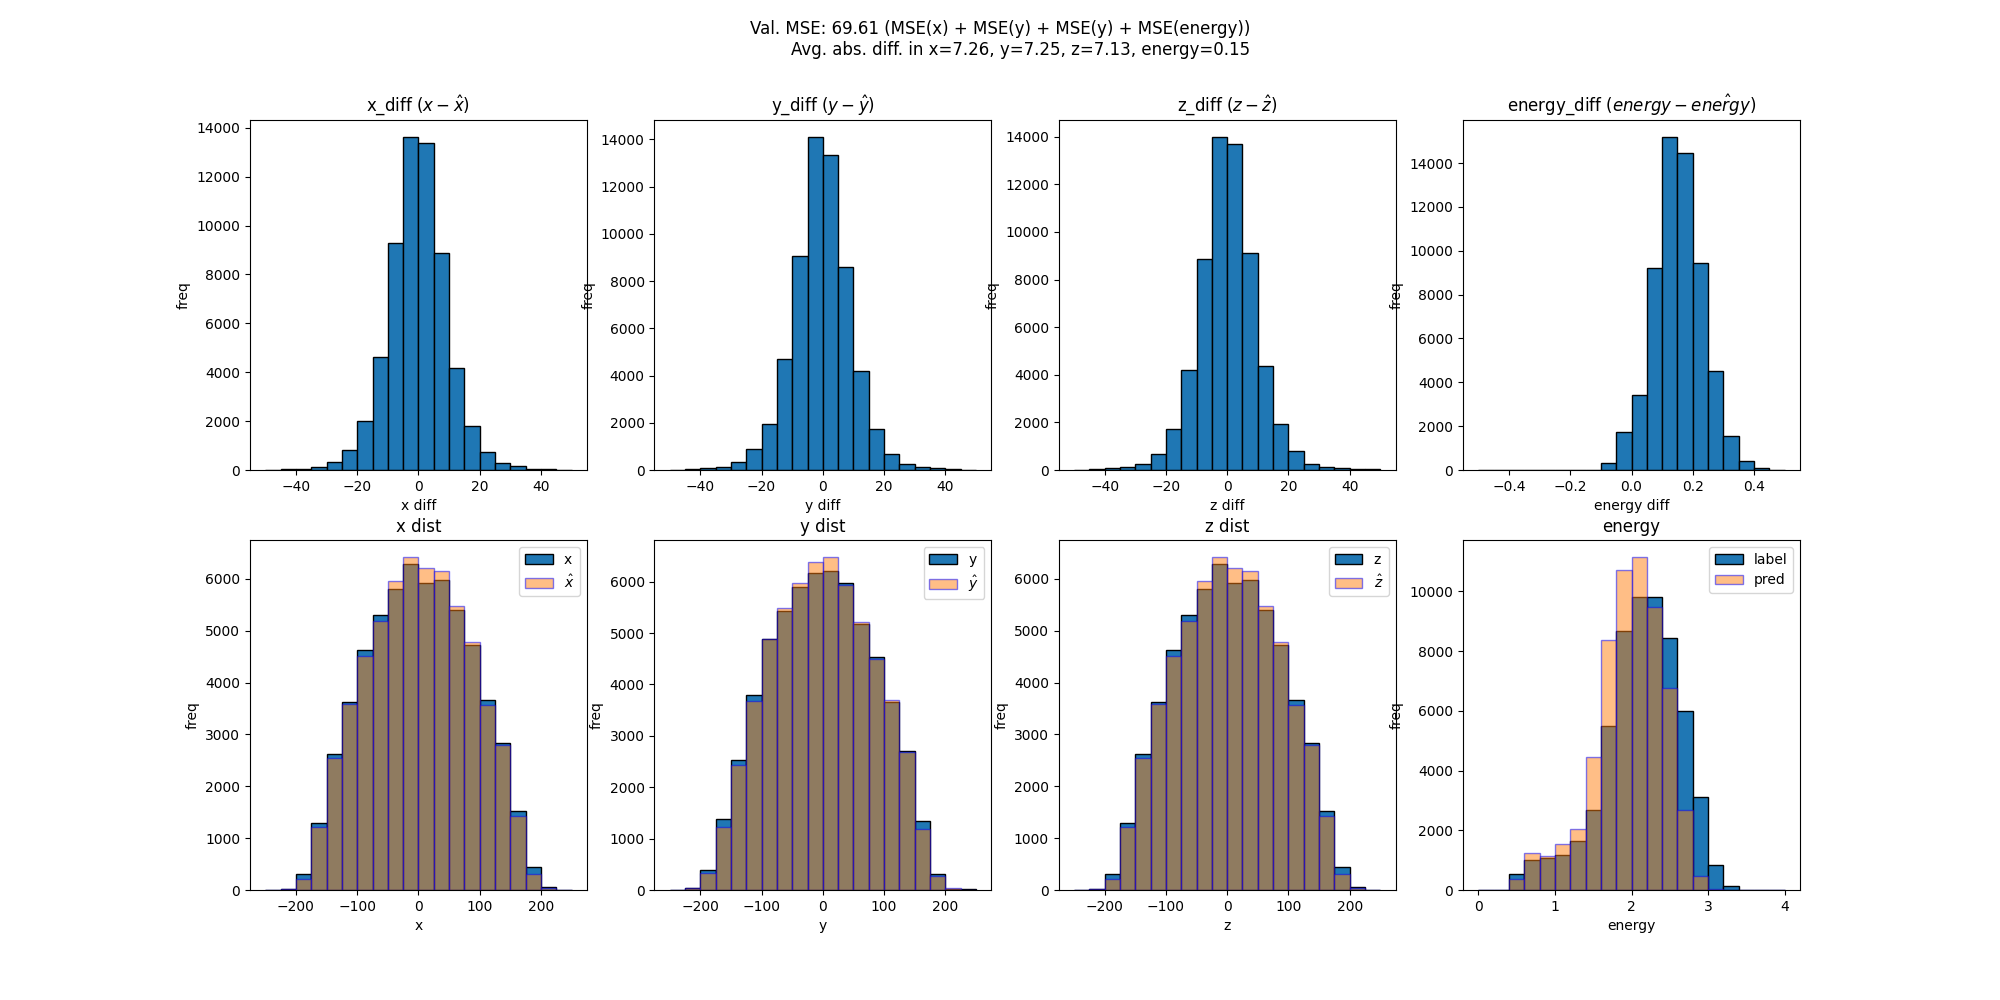
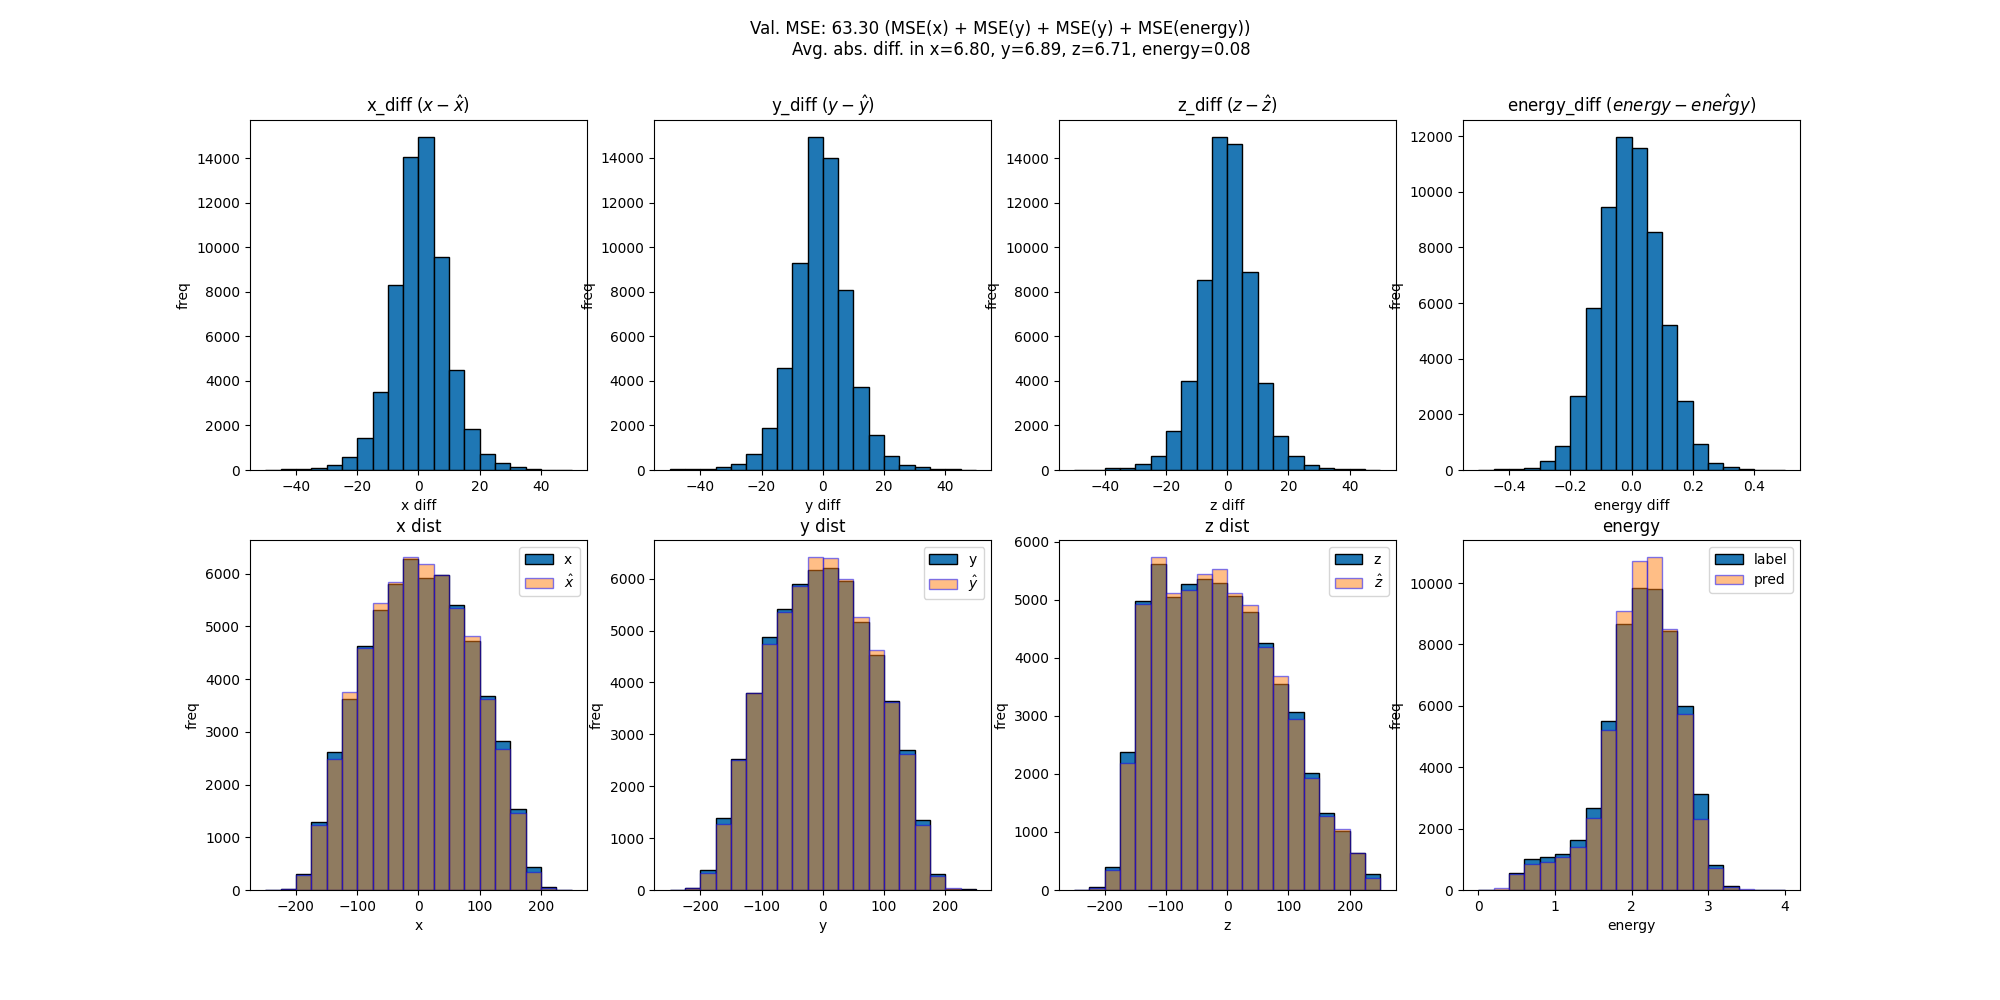
new sota, fixed_plotting bug, removed unnecessary codes

diff --git a/train.py b/train.py
@@ -40,7 +40,7 @@ parser.add_argument('--mean_only', action="store_true")
 parser.add_argument('--save_best', action="store_true")
 parser.add_argument('--seed', type=int, default=999)
 parser.add_argument('--patience', type=int, default=15)
-
+parser.add_argument('--energy_mult', type=int, default=10)
 
 ## Initiate accelerator (distributed training) + flush output to {ver}/train.txt
 args = parser.parse_args()
@@ -128,33 +128,33 @@ with tqdm(total=args.epochs, mininterval=10) as pbar:
     tot_train_lst = []
     for epoch in epochs:
         model.train()
-        total_loss = 0
+        total_train_loss = 0
+        total_xyz_loss = 0 ##
+        total_energy_loss = 0 ##
         for i, batch in enumerate(train_loader):
             ## forward prop
             X, y = batch
             out = model(X)
-            energy_mult = 160 ## scale energy loss
+            energy_mult = args.energy_mult ## scale energy loss
             out[:, -1], y[:, -1] = energy_mult * out[:, -1], energy_mult * y[:, -1] 
             loss = F.mse_loss(out, y)
-            train_loss = loss 
 
             ## backward prop
-            accelerator.backward(train_loss)
+            accelerator.backward(loss)
 
             ## logging purposes
             with torch.no_grad():
-                total_loss += train_loss.item()
+                total_train_loss += loss.item()
             ## update grad
             optimizer.step()
             optimizer.zero_grad()
 
-        total_loss /= len(train_loader)
-        tot_train_lst.append(total_loss)
+        total_train_loss /= len(train_loader)
+        tot_train_lst.append(total_train_loss)
 
         ## reduce lr on pleatau
         accelerator.print(f"min train loss: {min(tot_train_lst)}")
-        prev_lr = optimizer.param_groups[0]['lr']
-        scheduler.step(total_loss)
+        scheduler.step(total_train_loss)
 
         ## validation
         if epoch % 10 == 0 or epoch == args.epochs-1:
@@ -166,16 +166,15 @@ with tqdm(total=args.epochs, mininterval=10) as pbar:
                     ## forward
                     X, y = batch
                     out = model(X)
-                    out = accelerator.gather(out)
-                    y = accelerator.gather(y)
+                    out, y = accelerator.gather(out), accelerator.gather(y)
                     ## compute metric
                     val_loss = F.mse_loss(out, y)
                     total_val_loss += val_loss.item()
                 total_val_loss /= len(val_loader)
             current_lr = optimizer.param_groups[0]['lr']
-            accelerator.print(f'\nepoch {epoch}, train loss: {total_loss:.2f}, val loss: {total_val_loss:.2f}, lr: {current_lr}')
+            accelerator.print(f'\nepoch {epoch}, train loss: {total_train_loss:.2f}, val loss: {total_val_loss:.2f}, lr: {current_lr}')
             accelerator.log({
-                "train loss": total_loss,
+                "train loss": total_train_loss,
                 "val_loss": total_val_loss,
                 "lr": current_lr,
             })
@@ -188,13 +187,11 @@ with tqdm(total=args.epochs, mininterval=10) as pbar:
             if cond:
                 best_val = total_val_loss
                 if args.save_best:
-                    if hasattr(model, "module"):
-                        torch.save(model.module.state_dict(), save_name+".pt")
-                    else:
-                        torch.save(model.state_dict(), save_name+".pt")
+                    torch.save(accelerator.get_state_dict(model, unwrap=True), save_name+".pt")
                     accelerator.print(f"New Best Score!! Model_saved as {save_name}")
         else:
-            accelerator.log({"train loss": total_loss})
+            accelerator.log({"train loss": total_train_loss})
+
 
 ## time
 tot_time = time() - strt

diff --git a/utils.py b/utils.py
@@ -164,7 +164,7 @@ def plot_reg(diff, dist, total_val_loss, abs_diff, save_name, args):
     axes[0,2].set_xlabel('z diff')
     axes[0,2].set_ylabel('freq')
 
-    energy_diff_range = (0, 1)
+    energy_diff_range = (-0.5, 0.5)
     axes[0,3].hist(energy_diff, bins=20, range=energy_diff_range, edgecolor='black')
     axes[0,3].set_title(r"energy_diff ($energy - \hat{energy}$)")
     axes[0,3].set_xlabel('energy diff')
@@ -186,8 +186,8 @@ def plot_reg(diff, dist, total_val_loss, abs_diff, save_name, args):
     axes[1,1].set_ylabel('freq')
 
     z_range = (-250, 250)
-    axes[1,2].hist(x, bins=20, range=x_range, edgecolor='black', label="z")
-    axes[1,2].hist(x_pred, bins=20, range=x_range, edgecolor='blue', label=r'$\hat{z}$', alpha=0.5)
+    axes[1,2].hist(z, bins=20, range=z_range, edgecolor='black', label="z")
+    axes[1,2].hist(z_pred, bins=20, range=z_range, edgecolor='blue', label=r'$\hat{z}$', alpha=0.5)
     axes[1,2].set_title("z dist")
     axes[1,2].set_xlabel(r'z')
     axes[1,2].set_ylabel('freq')
@@ -195,13 +195,14 @@ def plot_reg(diff, dist, total_val_loss, abs_diff, save_name, args):
     energy_range = (0, 4)
     axes[1,3].hist(energy, bins=20, range=energy_range, edgecolor='black', label="label")
     axes[1,3].hist(energy_pred, bins=20, range=energy_range, edgecolor='blue', label="pred", alpha=0.5)
-    axes[1,3].set_title(r"energy_diff ($energy - \hat{energy}$)")
-    axes[1,3].set_xlabel('energy diff')
+    axes[1,3].set_title("energy")
+    axes[1,3].set_xlabel('energy')
     axes[1,3].set_ylabel('freq')
 
     axes[1, 0].legend()
     axes[1, 1].legend()
     axes[1, 2].legend()
+    axes[1, 3].legend()
 
     plt.savefig(save_name + "_hist.png")
     plt.close()

diff --git a/vis_for_pointNET.py b/vis_for_pointNET.py
@@ -119,7 +119,7 @@ model = PointClassifier(
 nparam = sum([p.numel() for p in model.parameters()])
 accelerator.print(f"num. parameters: {nparam}")
 optimizer = torch.optim.AdamW(model.parameters(), lr=args.lr, weight_decay=args.weight_decay)
-state_dict = torch.load(save_name+".pt")
+state_dict = torch.load(save_name+".pt", map_location=accelerator.device)
 if hasattr(model, "module"):
     model.module.load_state_dict(state_dict)
 else:
